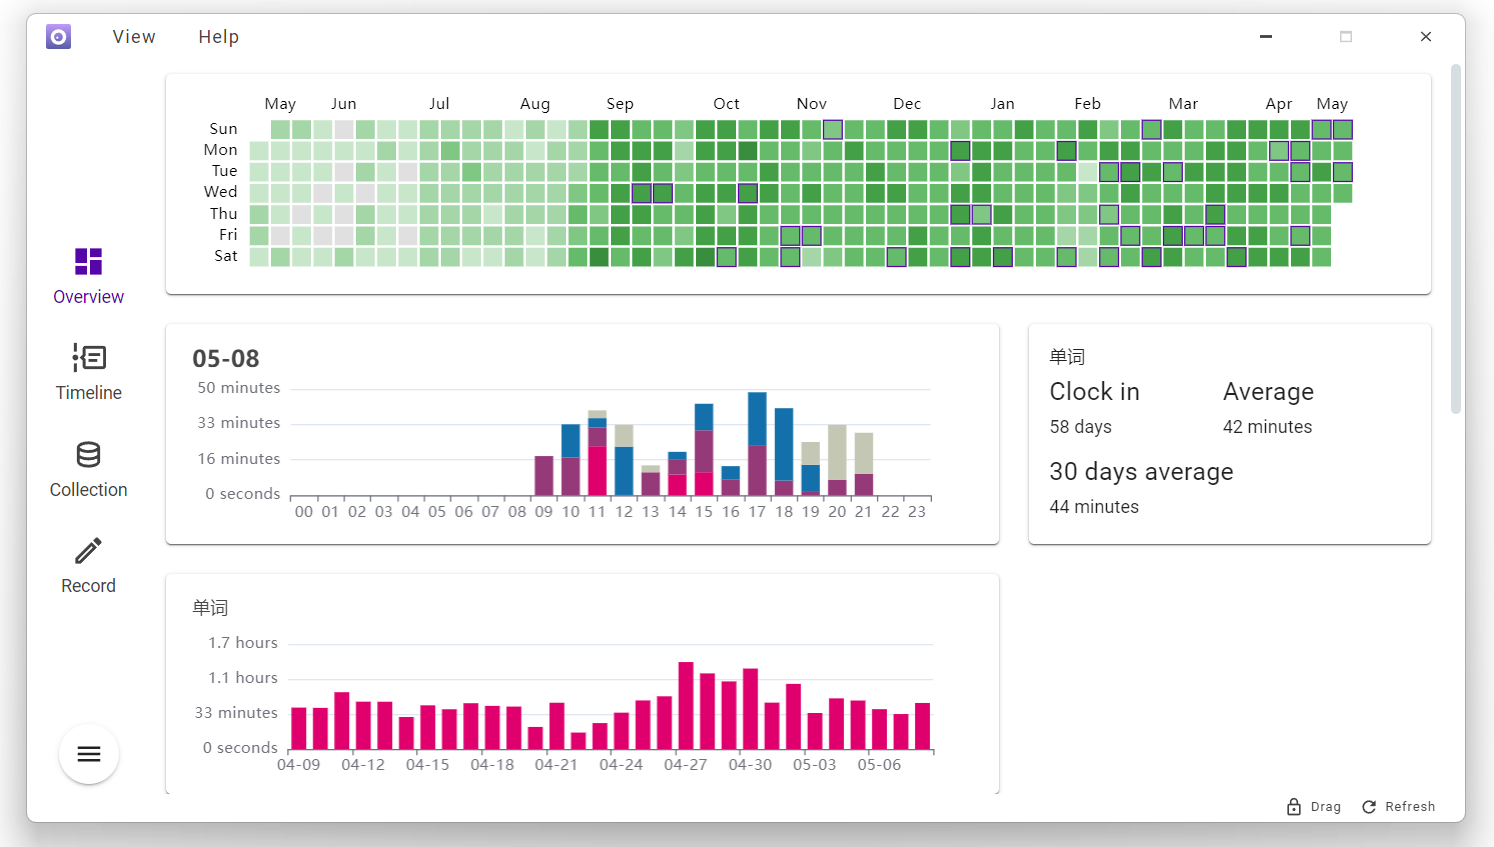
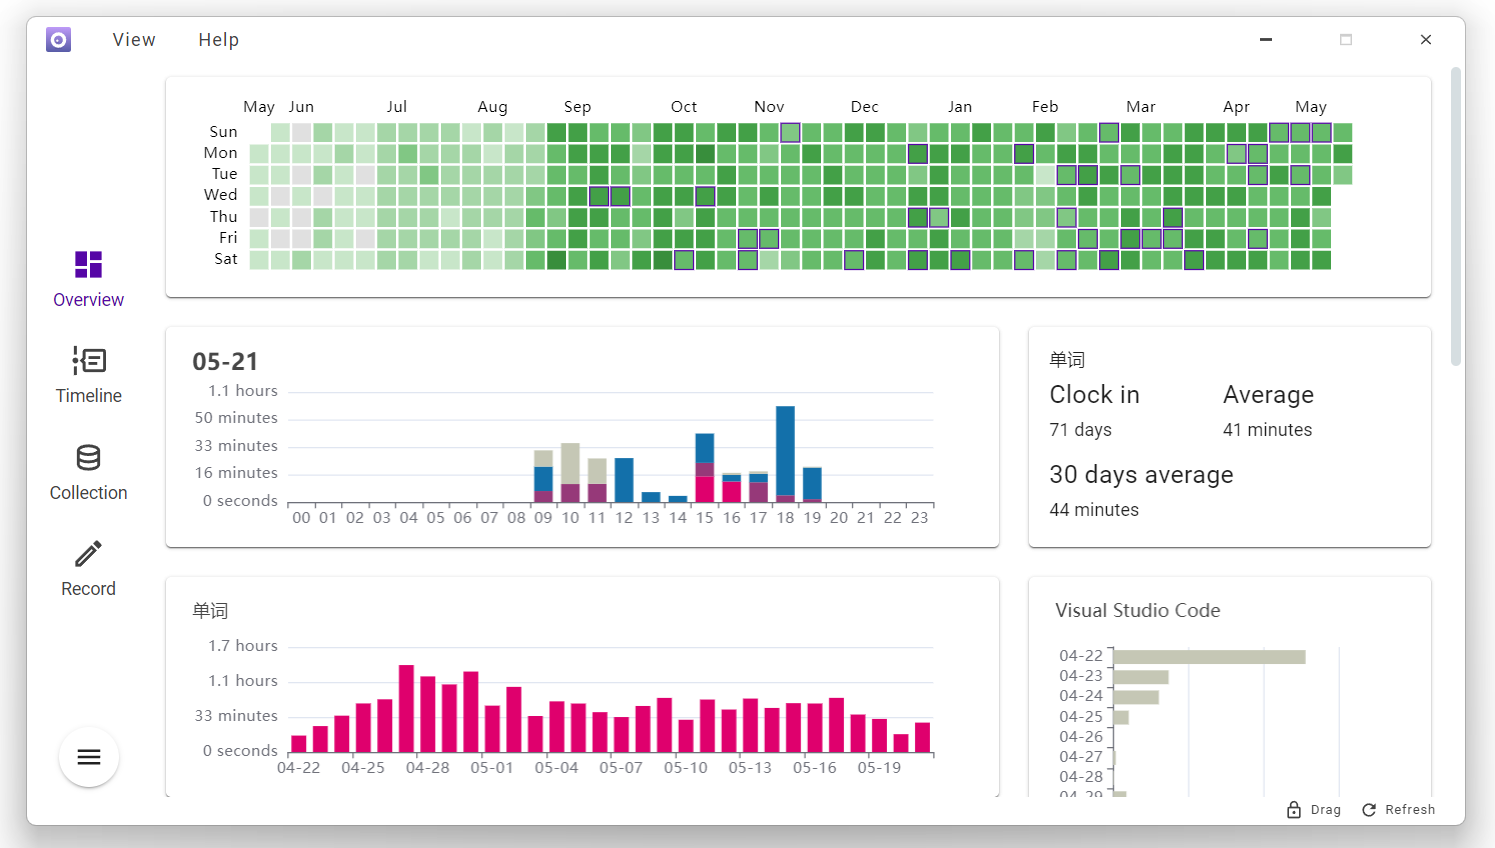
0.11文档

diff --git a/src/guide/overview.md b/src/guide/overview.md
@@ -4,6 +4,8 @@ Quickly understand the recorded data through custom charts
 
 ![](https://cdn.jsdelivr.net/gh/shion-app/docs/src/public/assets/en/overview/overview.png)
 
+![](https://cdn.jsdelivr.net/gh/shion-app/docs/src/public/assets/zh/overview/overview2.png)
+
 ## Active Status Calendar {#active-status-calendar}
 
 Use github-style charts to record the total time spent on specific projects every day, and the depth of the color represents the duration. When recording the data type **moment**, the border of the column for the day is marked with the theme color
@@ -27,3 +29,9 @@ A chart showing the data set of **manual timing** and **automatic timing** for t
 Same as **single category bar chart**, but displays data in text form
 
 ![](https://cdn.jsdelivr.net/gh/shion-app/docs/src/public/assets/en/overview/text-summary.png)
+
+## Recent activity pie chart {#recent-activity-pie}
+
+Charts showing the summary of the data collection of **manual timing** and **automatic timing** in recent days (when there are too many types of data, only the first 12 items **legend** will be displayed)
+
+![](https://cdn.jsdelivr.net/gh/shion-app/docs/src/public/assets/en/overview/recent-activity-pie.png)

diff --git a/src/zh/guide/overview.md b/src/zh/guide/overview.md
@@ -4,6 +4,8 @@
 
 ![](https://cdn.jsdelivr.net/gh/shion-app/docs/src/public/assets/zh/overview/overview.png)
 
+![](https://cdn.jsdelivr.net/gh/shion-app/docs/src/public/assets/zh/overview/overview2.png)
+
 ## 活跃状态日历 {#active-status-calendar}
 
 采用github风格的图表，记录每天具体项目花费时间总和，颜色的深浅代表时长。当记录下数据类型**瞬间**时，当天一栏的边框由主题色标识
@@ -30,3 +32,9 @@
 同**单独类别柱状图**，但以文本形式展示数据
 
 ![](https://cdn.jsdelivr.net/gh/shion-app/docs/src/public/assets/zh/overview/text-summary.png)
+
+## 最近活跃饼状图 {#recent-activity-pie}
+
+展示**手动计时**和**自动计时**的数据集合最近几天总结的图表（当数据种类过多时，仅展示前12项**图例**）
+
+![](https://cdn.jsdelivr.net/gh/shion-app/docs/src/public/assets/zh/overview/recent-activity-pie.png)
